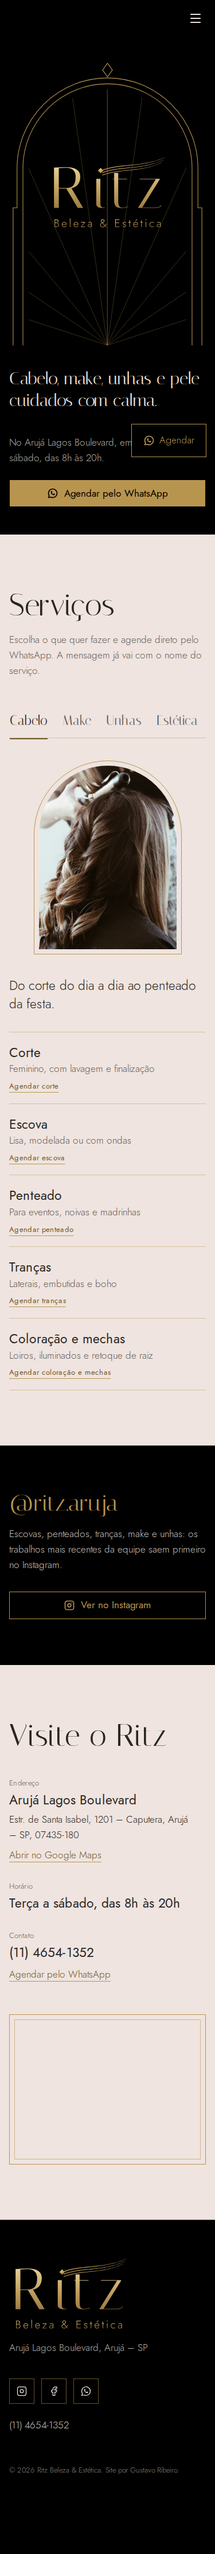
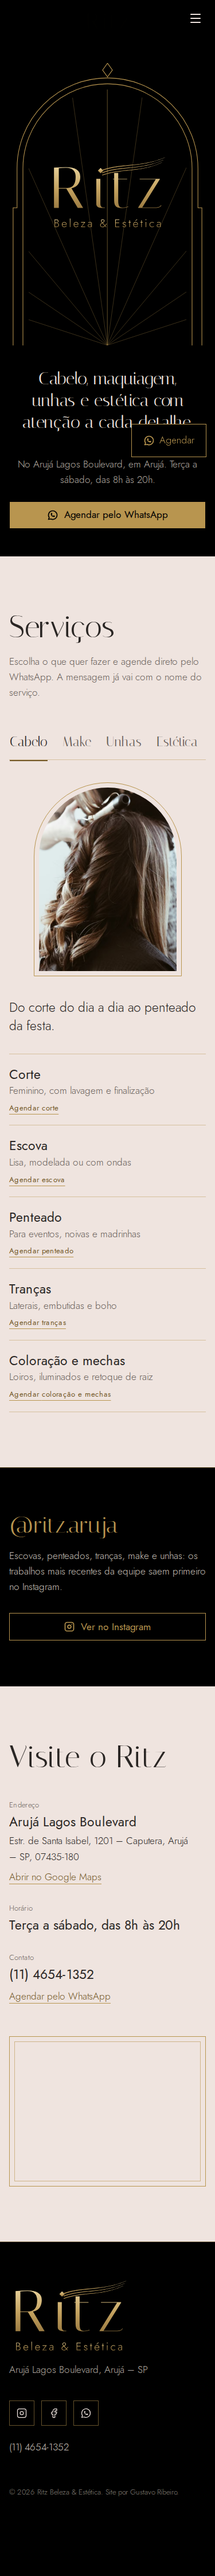
feat: clearer hero headline
- replace "Cabelo, make, unhas e pele cuidados com calma." with
  "Cabelo, maquiagem, unhas e estética com atenção a cada detalhe."
- balance the headline wrap and size it to fit beside the arch (4 lines
  at 1440px); the three-column hero now starts at xl, and the stacked
  layout centers the headline and booking block under the arch

diff --git a/src/components/hero.tsx b/src/components/hero.tsx
@@ -9,18 +9,18 @@ import { RitzLogo } from '@/components/ritz-logo';
 export function Hero() {
   return (
     <section id="inicio" className="overflow-hidden on-laca">
-      <div className="mx-auto grid max-w-6xl items-end gap-10 px-4 pt-10 sm:px-6 md:pt-14 lg:grid-cols-[1fr_minmax(0,30rem)_1fr] lg:gap-12">
-        <DecoArch className="mx-auto max-w-[24rem] sm:max-w-[30rem] lg:order-2">
+      <div className="mx-auto grid max-w-6xl items-end gap-10 px-4 pt-10 sm:px-6 md:pt-14 xl:grid-cols-[1fr_minmax(0,30rem)_1fr] xl:gap-12">
+        <DecoArch className="mx-auto max-w-[24rem] sm:max-w-[30rem] xl:order-2">
           <h1 id="masthead" className="absolute inset-x-[12%] top-[24%]">
             <RitzLogo className="w-full" />
           </h1>
         </DecoArch>
 
-        <p className="max-w-[24ch] self-center font-display text-2xl leading-tight text-marfim md:text-4xl lg:order-1 lg:justify-self-end lg:pb-24 lg:text-right">
-          Cabelo, make, unhas e pele cuidados com calma.
+        <p className="mx-auto max-w-[24ch] self-center text-center font-display text-2xl leading-tight text-balance text-marfim md:text-4xl xl:order-1 xl:mx-0 xl:justify-self-end xl:pb-24 xl:text-right xl:text-[2rem]">
+          Cabelo, maquiagem, unhas e estética com atenção a cada detalhe.
         </p>
 
-        <div className="flex flex-col gap-6 pb-12 lg:order-3 lg:pb-24">
+        <div className="flex flex-col items-center gap-6 pb-12 text-center xl:order-3 xl:items-start xl:pb-24 xl:text-left">
           <p className="max-w-[34ch] text-marfim/75">
             No {salon.address.place}, em Arujá. {salon.hours.display}.
           </p>
